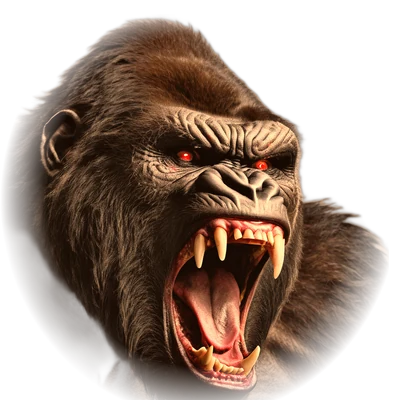
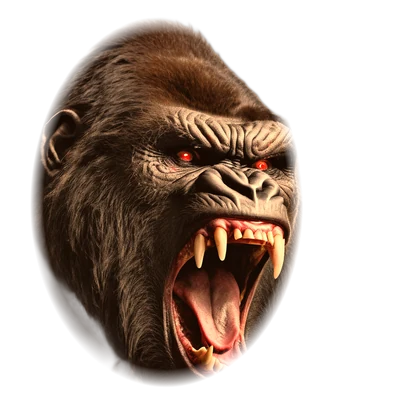
Refine photoreal heads: 20% smaller, clean George cut-out, neck blending
- Heads (photo and vector) scaled down 20%
- George head re-cut with an ellipse mask that follows the head outline, removing
  the shoulder fur that stuck out on the right
- Tapering fur/scale neck mane from shoulders to head plus a soft jaw shadow so
  the head sits on the body instead of floating
- George body fur colour-matched to the head photo

Changed region(s): [[0.27, 0.27, 0.99, 1.0], [0.0, 0.03, 0.51, 0.9]]

diff --git a/js/art/monsterArt.js b/js/art/monsterArt.js
@@ -11,7 +11,7 @@ import { REAL, texPattern } from './realAssets.js';
 
 export const KINDS = {
   george: {
-    name: 'GEORGE', ui: '#f2a23a', tex: 'fur', fur: 1.7, texBody: 'fur_brown', texSkin: 'skin_gorilla', tint: '#f0c8a8',
+    name: 'GEORGE', ui: '#f2a23a', tex: 'fur', fur: 1.7, texBody: 'fur_brown', texSkin: 'skin_gorilla', tint: '#ffe2c4',
     base: '#5c3018', light: '#a4612e', dark: '#240f05', line: '#120602',
     skin: '#c98a52', skinLight: '#f0bd86', skinDark: '#7d4f2b',
     eye: '#ff2a12', mouth: '#3a0505', gum: '#c23038',
@@ -53,7 +53,8 @@ const P = (x, y) => ({ x, y });
 const mix = (a, b, t) => P(lerp(a.x, b.x, t), lerp(a.y, b.y, t));
 const hash = (i, s = 0) => { const v = Math.sin(i * 12.9898 + s * 78.233) * 43758.5453; return v - Math.floor(v); };
 const LIGHT = { x: -0.6, y: -0.8 };
-const HEAD_SCALE = 1.3;   // direction towards the light, world space
+const HEAD_SCALE = 1.04;           // vector heads
+const PHOTO_K = 0.8;               // photo heads (relative to their metadata size)
 
 // ---------------------------------------------------------------------------
 // Pose
@@ -533,7 +534,7 @@ const PHOTO_OFS = { x: 6, y: 2 };
 function drawPhotoHead(ctx, h, mouth, t) {
   const roar = mouth > 0.62;
   const v = roar ? h.roar : h.snarl, img = roar ? h.roarImg : h.snarlImg;
-  const S = h.size;
+  const S = h.size * PHOTO_K;
   ctx.translate(PHOTO_OFS.x, PHOTO_OFS.y);
   ctx.drawImage(img, -S / 2, -S / 2, S, S);
   ctx.globalCompositeOperation = 'lighter';
@@ -551,7 +552,8 @@ function drawPhotoHead(ctx, h, mouth, t) {
 function mouthOffset(kind) {
   const h = isReal() && REAL.heads[kind];
   if (!h) return { x: 22, y: 12 };
-  return { x: PHOTO_OFS.x + (h.roar.mouth[0] - 0.5) * h.size, y: PHOTO_OFS.y - 6 + (h.roar.mouth[1] - 0.5) * h.size };
+  const S = h.size * PHOTO_K;
+  return { x: PHOTO_OFS.x + (h.roar.mouth[0] - 0.5) * S, y: PHOTO_OFS.y - 2 + (h.roar.mouth[1] - 0.5) * S };
 }
 
 // ---------------------------------------------------------------------------
@@ -756,8 +758,17 @@ export function drawMonster(ctx, m, time) {
   part(ctx, p.hipF, p.kneeF, k.thigh, k, L, { seed: 7 });
   part(ctx, p.kneeF, p.footF, k.shin, k, L, { seed: 8 });
   foot(ctx, p.kneeF, p.footF, k, k);
-  // thick neck joining the photo head to the shoulders
-  if (isReal()) part(ctx, P(p.chest.x - 2, p.chest.y + 6), P(p.head.x - 2, p.head.y + 10), [[0, 17, 17], [1, 15, 15]], k, L, { seed: 12 });
+  // neck / mane: a tapering mass of the body material running from the shoulders up
+  // under the photo head, with a contact shadow below the jaw so the head sits on it
+  if (isReal() && REAL.heads[m.kind]) {
+    const nk = m.kind === 'george' ? [[0, 26, 26], [0.55, 24, 23], [1, 18, 17]] : m.kind === 'ralph' ? [[0, 23, 23], [0.6, 22, 22], [1, 16, 16]] : [[0, 20, 20], [1, 15, 15]];
+    part(ctx, P(p.chest.x - 4, p.chest.y + 10), P(p.head.x, p.head.y + 2), nk, k, L, { seed: 12, furBack: k.fur * 1.6, furFront: k.fur });
+    const S = REAL.heads[m.kind].size * PHOTO_K;
+    const sx = p.head.x + 4, sy = p.head.y + S * 0.26;
+    const sg = ctx.createRadialGradient(sx, sy, 0, sx, sy, S * 0.38);
+    sg.addColorStop(0, 'rgba(0,0,0,0.32)'); sg.addColorStop(1, 'rgba(0,0,0,0)');
+    ctx.fillStyle = sg; ctx.beginPath(); ctx.ellipse(sx, sy, S * 0.38, S * 0.22, 0, 0, 7); ctx.fill();
+  }
   // shoulder mass + front arm
   ctx.save();
   jaggedBlob(ctx, p.shF.x, p.shF.y, k.upper[1][1] + 1, k.upper[1][1], 22, k.fur, 9);
@@ -773,7 +784,7 @@ export function drawMonster(ctx, m, time) {
   part(ctx, p.elbF, p.handF, k.fore, k, L, { seed: 10 });
   // head (big, like the original sprites)
   ctx.save();
-  ctx.translate(p.head.x, p.head.y - 6); ctx.rotate(p.headRot); ctx.scale(HEAD_SCALE, HEAD_SCALE);
+  ctx.translate(p.head.x, p.head.y - 2); ctx.rotate(p.headRot); ctx.scale(HEAD_SCALE, HEAD_SCALE);
   const photo = isReal() && REAL.heads[m.kind];
   if (photo) { ctx.scale(1 / HEAD_SCALE, 1 / HEAD_SCALE); drawPhotoHead(ctx, photo, p.mouth, time); }
   else if (m.kind === 'george') headGeorge(ctx, k, p.mouth, time);

diff --git a/tools/post_heads.py b/tools/post_heads.py
@@ -9,8 +9,8 @@ OUT_PX = 400
 # per image (1024px source coords): head centre, fade radii, eyes, mouth
 SPEC = {
     'george': {'size': 112, 'warm': True,
-               'snarl': dict(c=(560, 430), r=(360, 470), eyes=[(544, 346), (704, 356)], mouth=(620, 660)),
-               'roar': dict(c=(580, 440), r=(360, 470), eyes=[(544, 332), (720, 334)], mouth=(620, 630))},
+               'snarl': dict(c=(560, 430), r=(360, 470), ell=(530, 440, 300, 262, 440, 420, 0.1), eyes=[(544, 346), (704, 356)], mouth=(620, 660)),
+               'roar': dict(c=(580, 440), r=(360, 470), ell=(500, 450, 320, 322, 445, 430, 0.1), eyes=[(544, 332), (720, 334)], mouth=(620, 630))},
     'lizzie': {'size': 122, 'warm': False,
                'snarl': dict(c=(620, 420), r=(420, 520), eyes=[(526, 226)], mouth=(720, 560)),
                'roar': dict(c=(640, 420), r=(420, 520), eyes=[(556, 196)], mouth=(700, 520))},
@@ -26,8 +26,16 @@ for kind, ks in SPEC.items():
         im = np.asarray(Image.open(f'{SRC}{kind}_{expr}.png').convert('RGBA')).astype(np.float32)
         cx, cy = sp['c']; r0, r1 = sp['r']
         yy, xx = np.mgrid[0:im.shape[0], 0:im.shape[1]]
-        d = np.hypot(xx - cx, (yy - cy) * 0.92)
-        fade = np.clip((r1 - d) / (r1 - r0), 0, 1)
+        if 'ell' in sp:
+            # asymmetric ellipse hugging the head outline: (cx, cy, left, right, top, bottom, feather)
+            ex, ey, rl, rr, rt, rb, fe = sp['ell']
+            nx = (xx - ex) / np.where(xx < ex, rl, rr)
+            ny = (yy - ey) / np.where(yy < ey, rt, rb)
+            d = np.hypot(nx, ny)
+            fade = np.clip((1 - d) / fe, 0, 1)
+        else:
+            d = np.hypot(xx - cx, (yy - cy) * 0.92)
+            fade = np.clip((r1 - d) / (r1 - r0), 0, 1)
         im[..., 3] *= fade
         if ks['warm']:   # original George is brown, the photo gorilla is near-black
             im[..., 0] = np.clip(im[..., 0] * 1.25 + 18, 0, 255)
